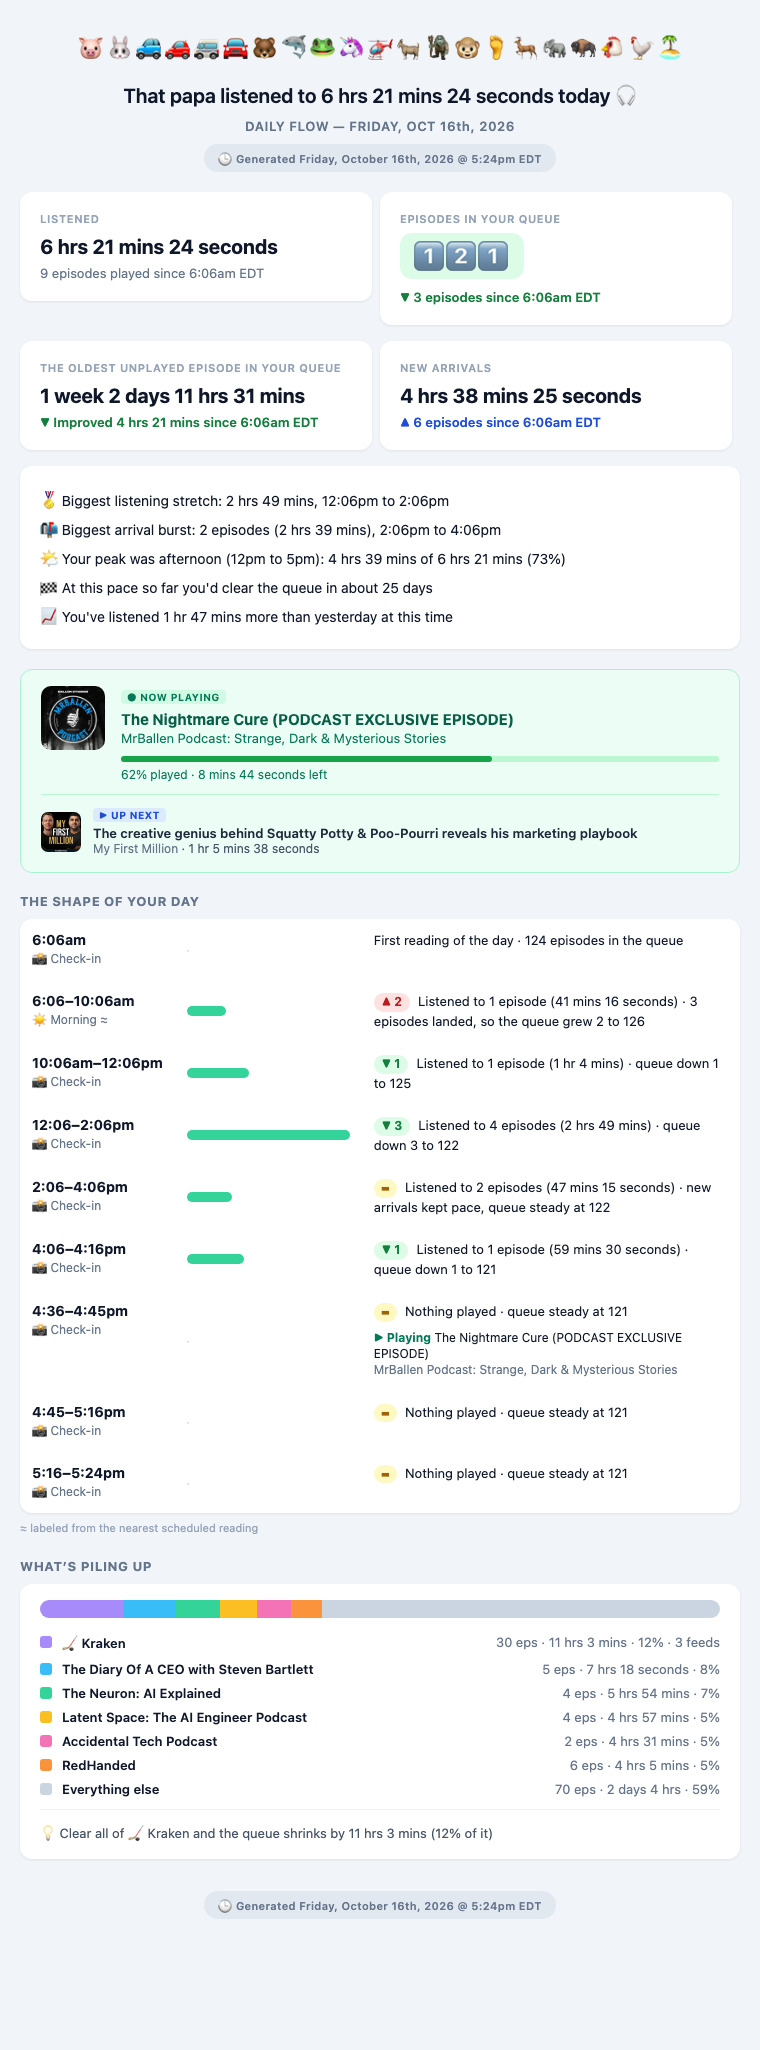
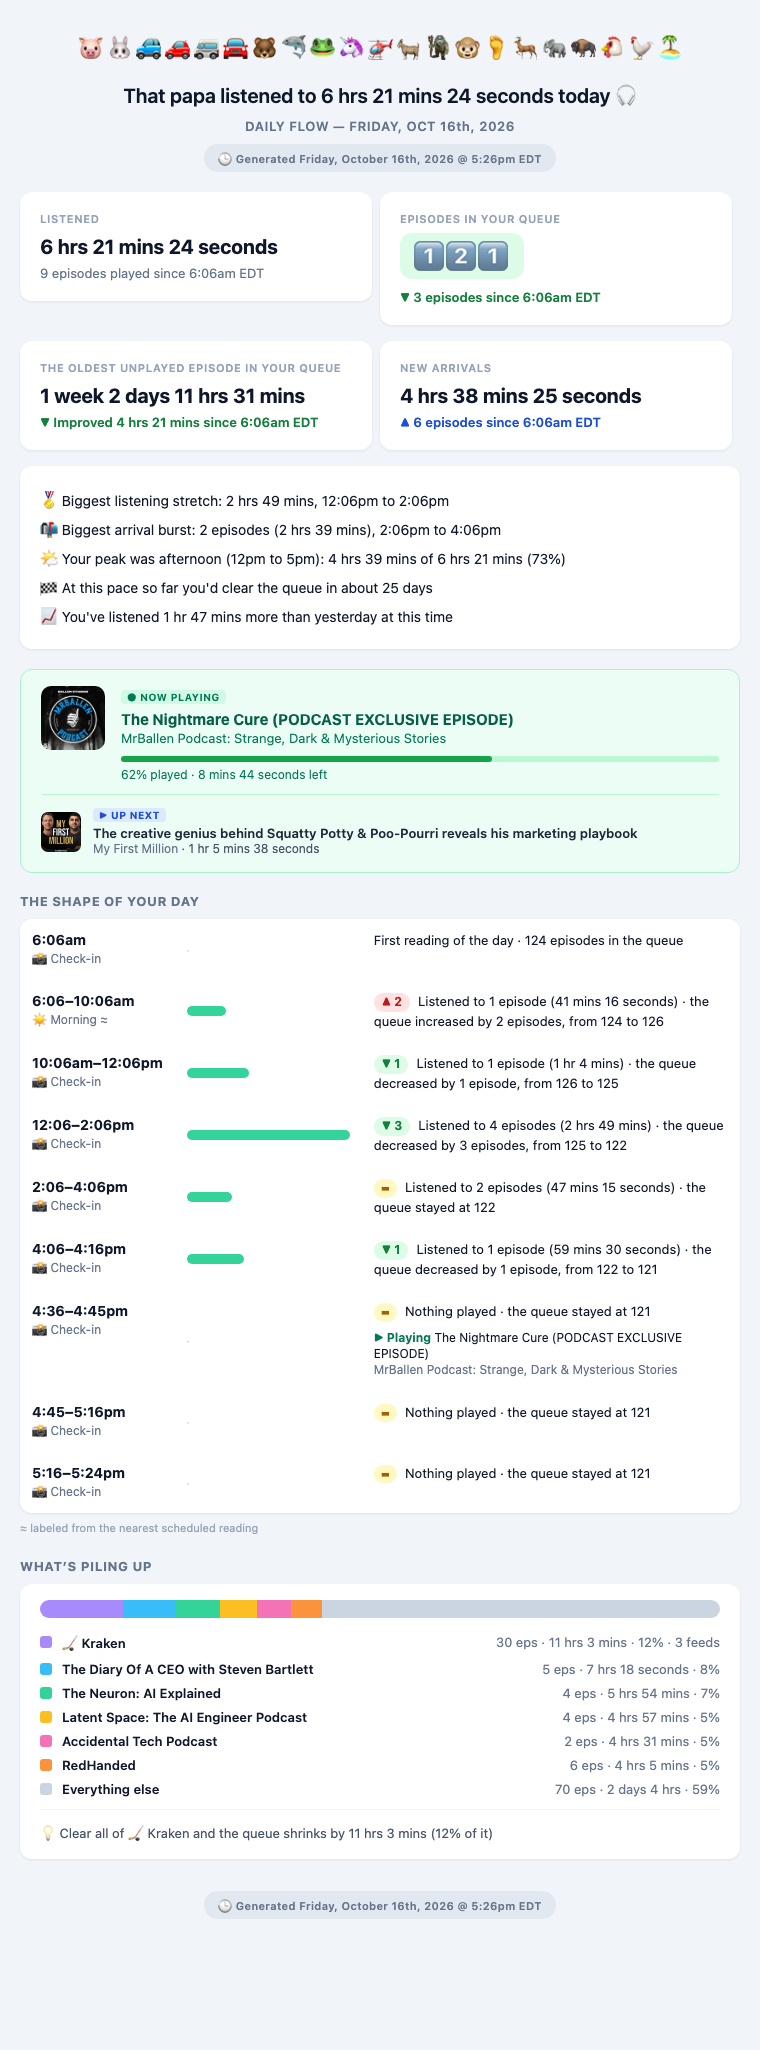
Flow web report: "the queue increased by 2 episodes, from 124 to 126"

diff --git a/tests/test_flow.py b/tests/test_flow.py
@@ -639,24 +639,24 @@ class WindowStoryTests(unittest.TestCase):
 
     def test_listening_that_shrinks_the_queue(self):
         text, tone, delta = flow.window_story(self.window(3, 9000, -3, 0, 122))
-        self.assertEqual(text, "Listened to 3 episodes (2 hrs 30 mins) · queue down 3 to 122")
+        self.assertEqual(text, "Listened to 3 episodes (2 hrs 30 mins) · the queue decreased by 3 episodes, from 125 to 122")
         self.assertEqual((tone, delta), ("better", -3))
 
     def test_listening_outpaced_by_arrivals(self):
         text, tone, delta = flow.window_story(self.window(1, 2400, 2, 3, 126))
-        self.assertEqual(text, "Listened to 1 episode (40 mins) · 3 episodes landed, so the queue grew 2 to 126")
+        self.assertEqual(text, "Listened to 1 episode (40 mins) · the queue increased by 2 episodes, from 124 to 126")
         self.assertEqual(tone, "worse")
 
     def test_arrivals_keeping_pace(self):
         text, tone, _ = flow.window_story(self.window(2, 3000, 0, 2, 121))
-        self.assertEqual(text, "Listened to 2 episodes (50 mins) · new arrivals kept pace, queue steady at 121")
+        self.assertEqual(text, "Listened to 2 episodes (50 mins) · the queue stayed at 121")
         self.assertEqual(tone, "same")
 
     def test_a_quiet_window(self):
         text, tone, _ = flow.window_story(self.window(0, 0, 0, 0, 121))
-        self.assertEqual(text, "Nothing played · queue steady at 121")
+        self.assertEqual(text, "Nothing played · the queue stayed at 121")
         text, tone, _ = flow.window_story(self.window(0, 0, 3, 3, 124))
-        self.assertEqual(text, "Nothing played · 3 episodes landed, so the queue grew 3 to 124")
+        self.assertEqual(text, "Nothing played · the queue increased by 3 episodes, from 121 to 124")
 
     def test_timeline_shows_the_window_the_artwork_and_the_dash_in_words(self):
         history = [
@@ -670,7 +670,7 @@ class WindowStoryTests(unittest.TestCase):
         page = flow.render_day_html(s, NY)
         self.assertIn("4:00\u20136:00pm", page)
         self.assertIn("8:00\u201310:00am", page)
-        self.assertIn("Listened to 3 episodes (2 hrs 30 mins) · queue down 3 to 117", page)
+        self.assertIn("Listened to 3 episodes (2 hrs 30 mins) · the queue decreased by 3 episodes, from 120 to 117", page)
         self.assertIn('src="https://a/1.jpg"', page)
         self.assertIn('href="https://e/1"', page)
         self.assertIn("you listened to 3 episodes (2 hrs 30 mins), the queue got 2 hrs 46 mins shorter, and your oldest episode improved by 11 hrs 6 mins", page)

diff --git a/flow.py b/flow.py
@@ -550,15 +550,11 @@ def window_story(w):
     qd, arr = w["queue_delta"], w.get("arrivals_count") or 0
     head = f"Listened to {episodes_phrase(n)} ({dur_n(played)})" if played > 0 else "Nothing played"
     if qd < 0:
-        tail, tone = f"queue down {abs(qd)} to {q}", "better"
+        tail, tone = f"the queue decreased by {episodes_phrase(abs(qd))}, from {q - qd} to {q}", "better"
     elif qd > 0:
-        tail = (f"{episodes_phrase(arr)} landed, so the queue grew {qd} to {q}" if arr
-                else f"queue up {qd} to {q}")
-        tone = "worse"
+        tail, tone = f"the queue increased by {episodes_phrase(qd)}, from {q - qd} to {q}", "worse"
     else:
-        tail = (f"new arrivals kept pace, queue steady at {q}" if played > 0 and arr
-                else f"queue steady at {q}")
-        tone = "same"
+        tail, tone = f"the queue stayed at {q}", "same"
     return f"{head} · {tail}", tone, qd
 
 
